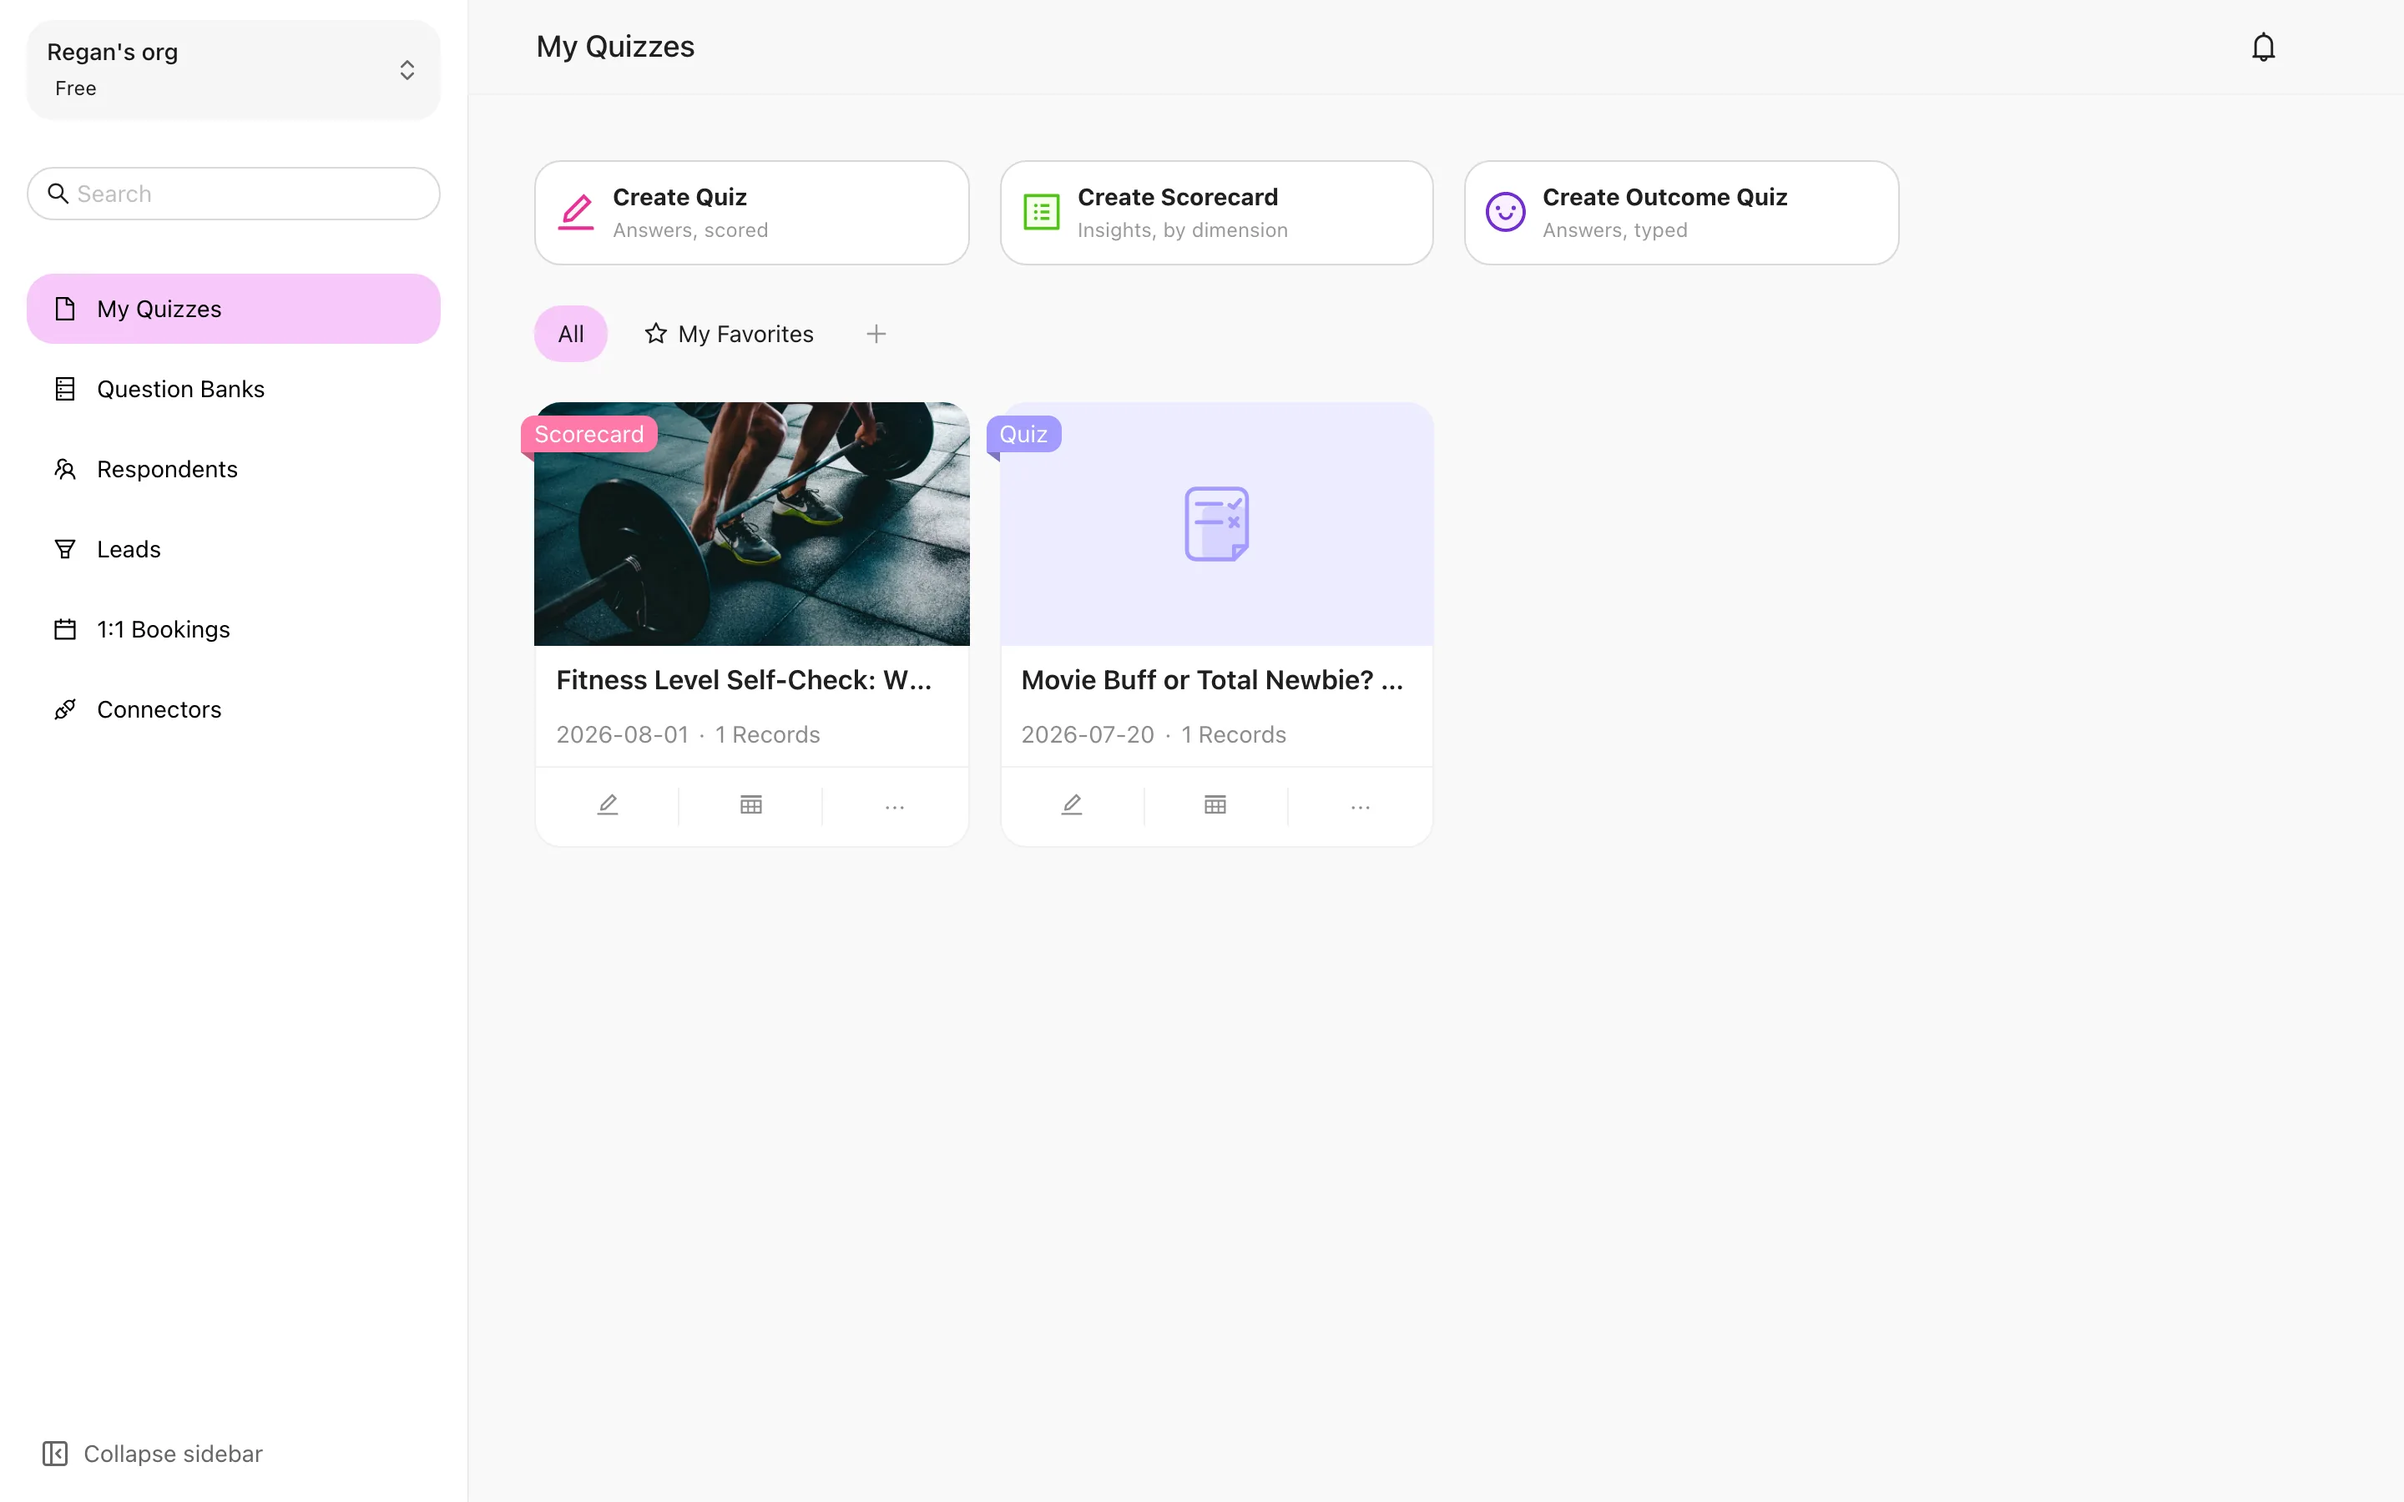
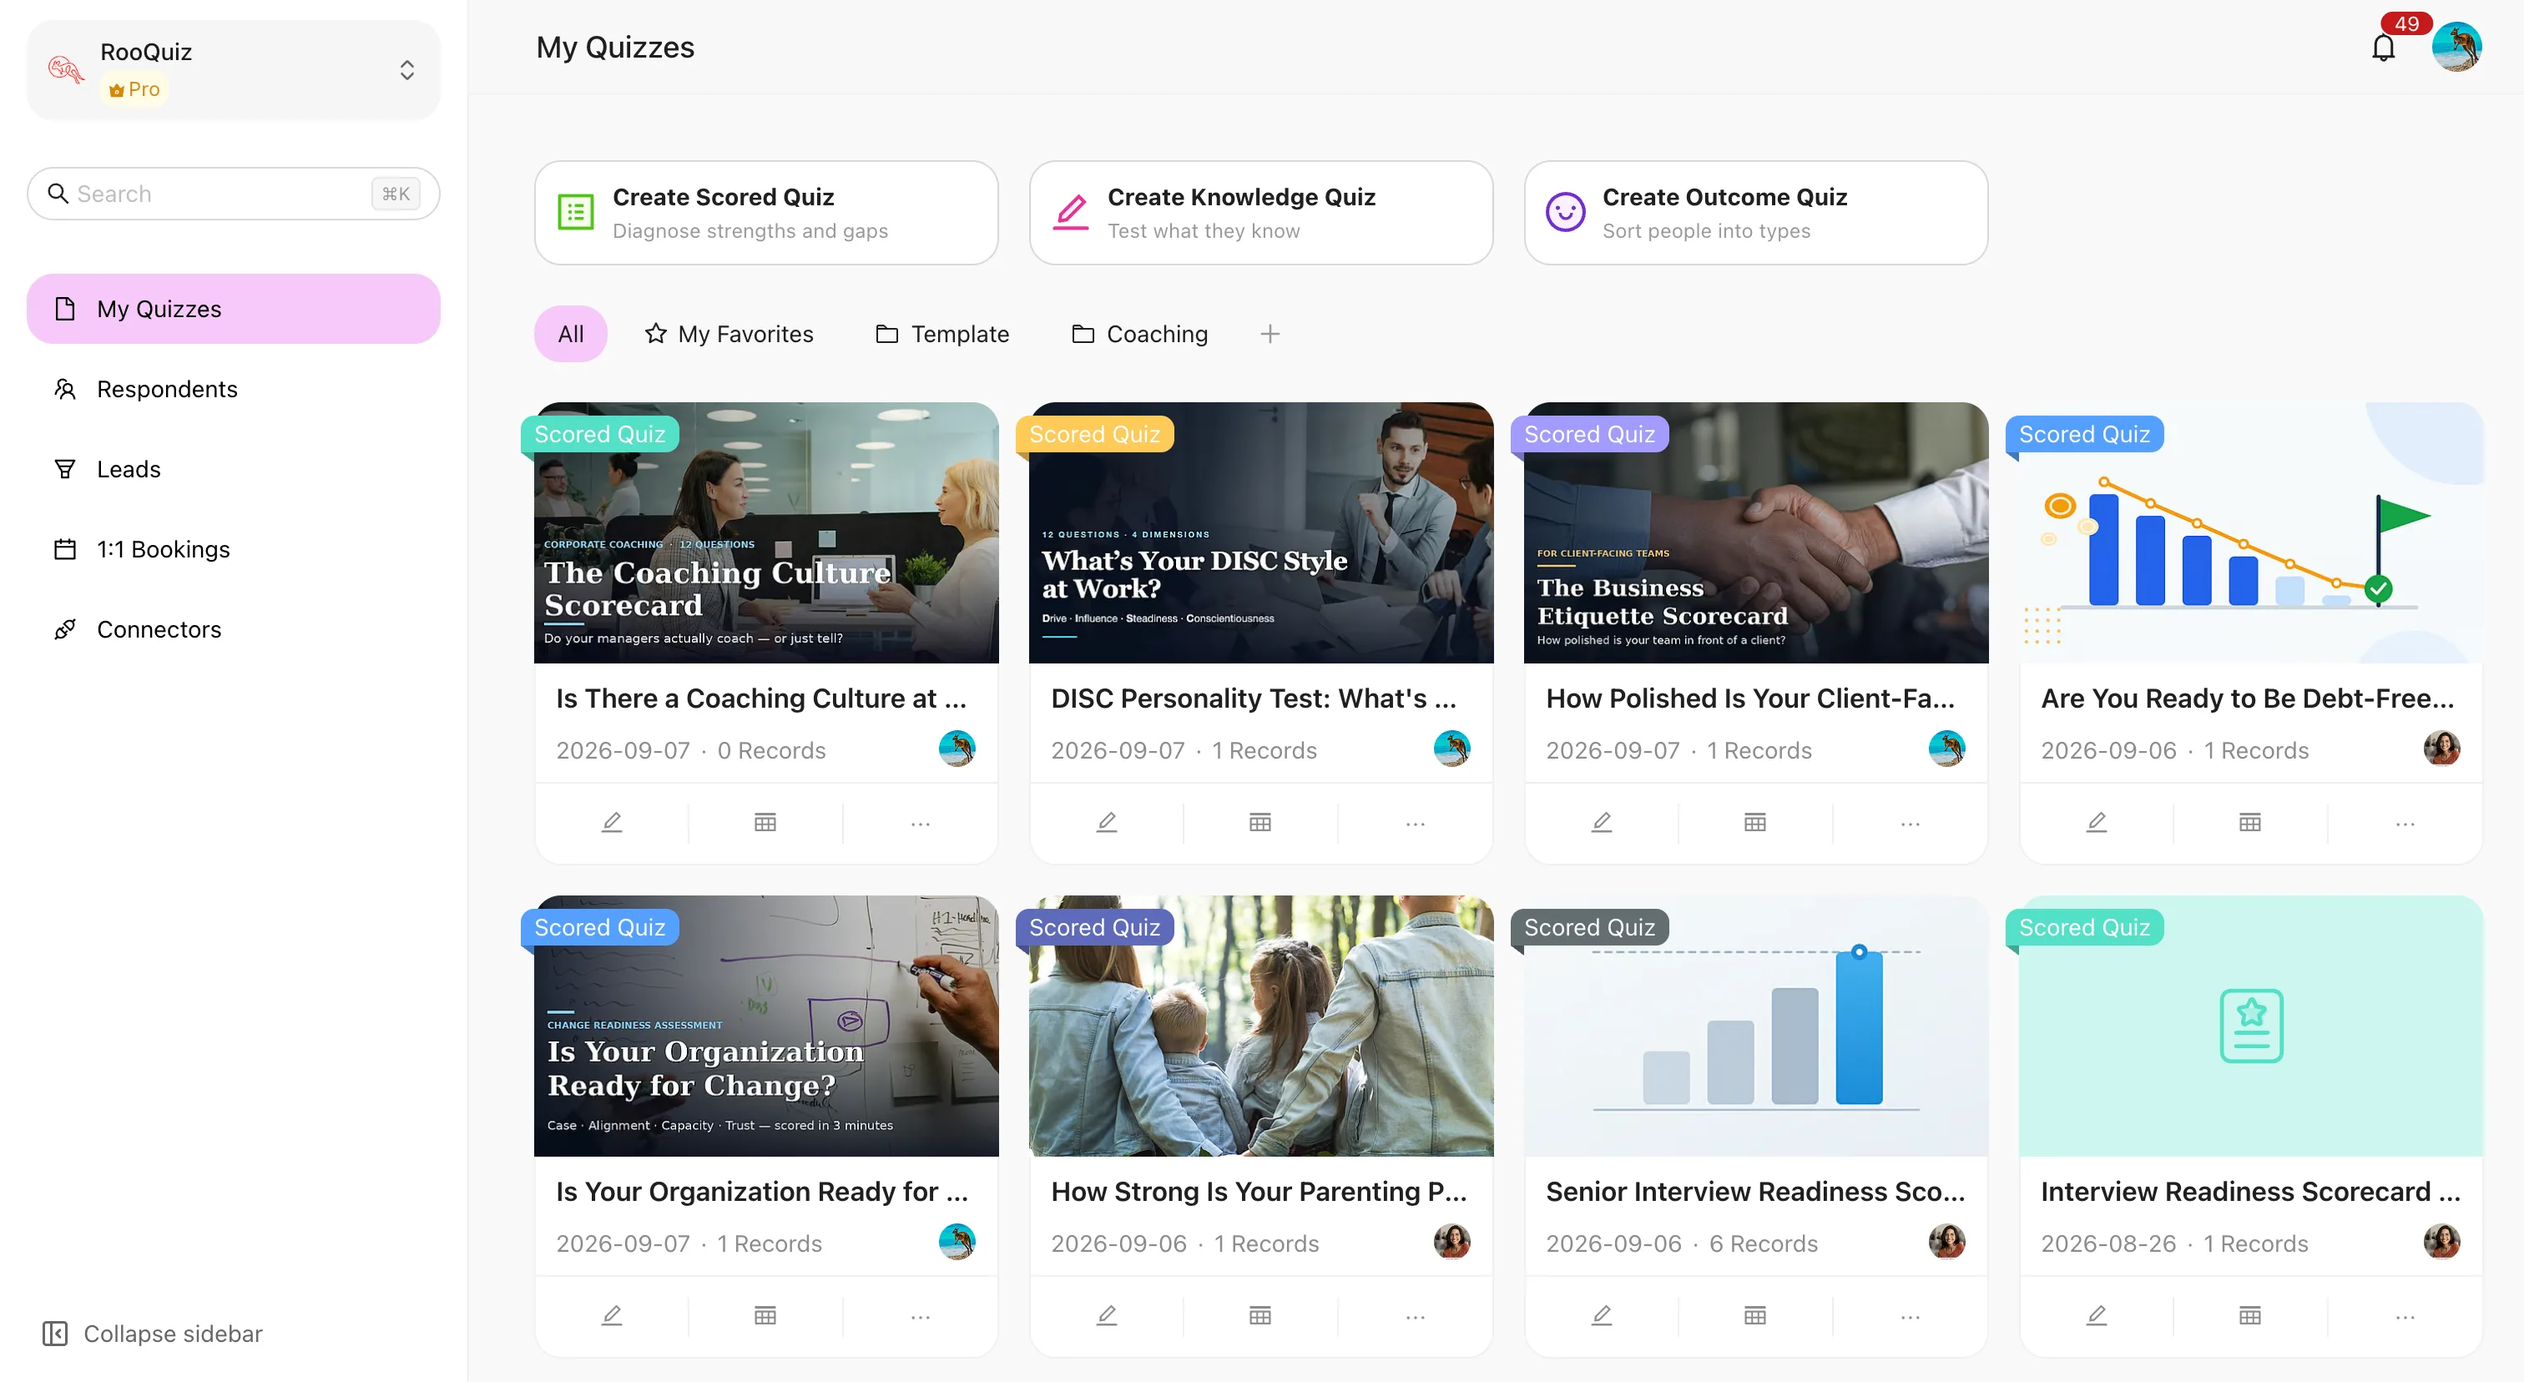
docs: replace broken screenshots and use English images in every locale
- connectors-list.webp was a captured "Application error" page; replace
  it with a real capture of the connectors page, and refresh the
  dashboard screenshot
- point every locale at /img/en/ and drop the now-unused public/img/zh
- rewrite the connectors image alt text for the new grouped-card layout

diff --git a/README.md b/README.md
@@ -103,13 +103,13 @@ Heading anchors are slugified from the heading text, CJK included (`## 转让所
 
 ### Images
 
-Put screenshots in `public/img/<locale>/<section>/<name>.webp` and reference them absolutely:
+Put screenshots in `public/img/en/<section>/<name>.webp` and reference them absolutely:
 
 ```mdx
 ![RooQuiz dashboard](/img/en/getting-started/dashboard.webp)
 ```
 
-Localized screenshots (UI in the matching language) go in the matching locale folder; only `en` and `zh` have their own today, so the other locales reference `/img/en/` (`zh-TW` uses `/img/zh/`). Fumadocs resolves these against `public/` at build time and emits them as sized, lazy-loaded, content-hashed assets under `_next/static/media`, which is why the originals stay in `public/`.
+Every locale uses the English screenshots — there are no per-locale image folders, so a page in any language references `/img/en/`. Convert new captures to WebP (`cwebp -q 82 in.png -o out.webp`) before committing. Fumadocs resolves these against `public/` at build time and emits them as sized, lazy-loaded, content-hashed assets under `_next/static/media`, which is why the originals stay in `public/`.
 
 ## Locales
 
